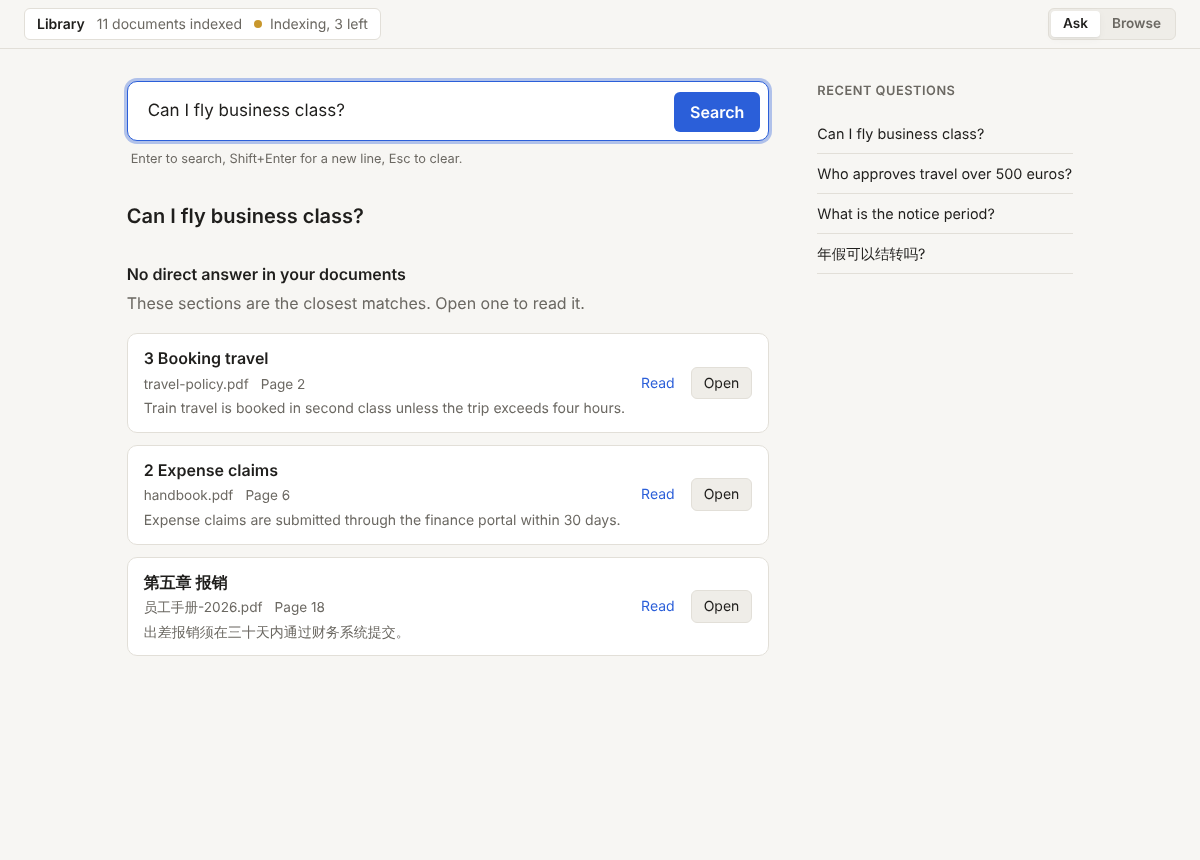
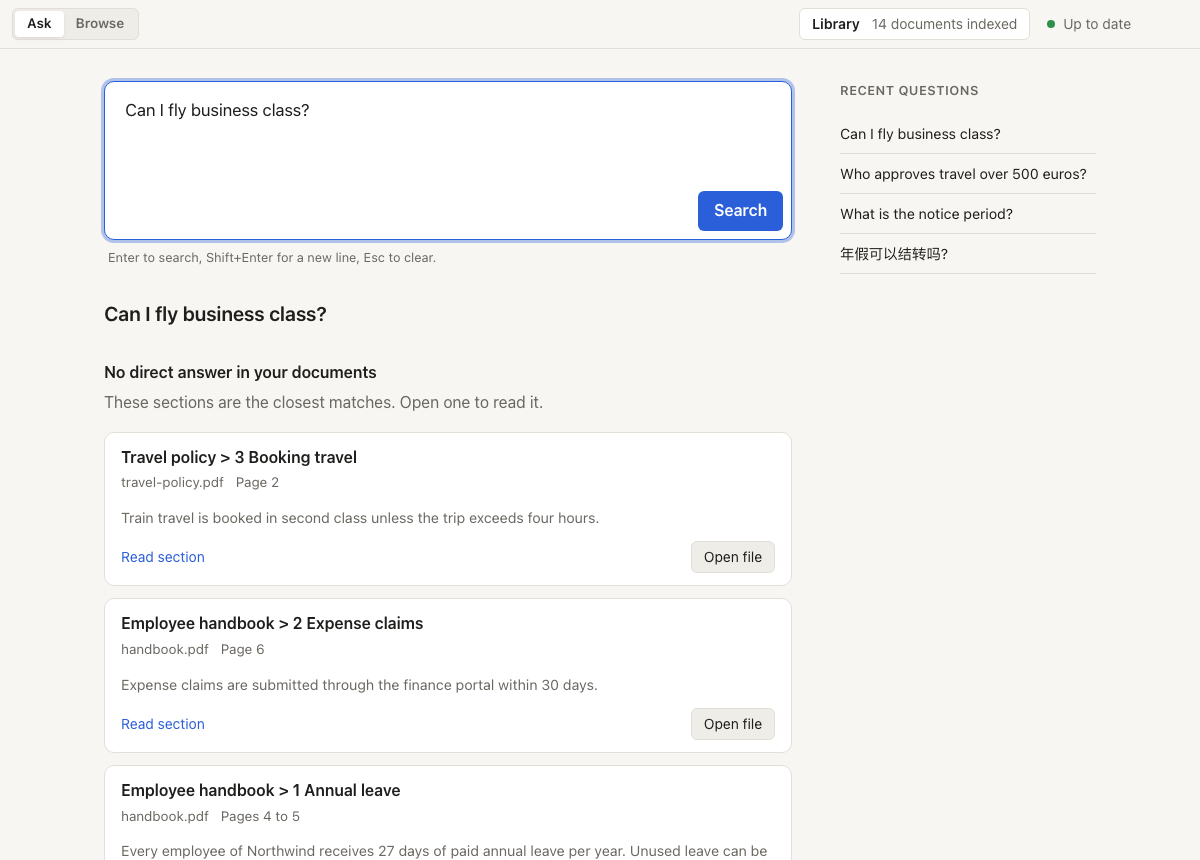
No direct answer list: Read section and Open file as on the source cards, passages rendered as Markdown; tests for an added file moved to the Trash (live, while closed, event missed)
The hand-test report (an added file deleted through the Trash stayed in the library) traced to the same-name Replace: the trashed file had already been replaced and removed; the document left was the other file of that name, which still exists. The new real-watcher tests pass on the earlier code. The fallback screenshot test used an indexing library, which keeps the question box off; it now uses an idle one.

Claude-Session: https://claude.ai/code/session_018TGyq8jhpjqYDijyPVhUzZ

diff --git a/src/main/libraries.test.ts b/src/main/libraries.test.ts
@@ -286,6 +286,77 @@ describe('LibraryManager', () => {
     await t.manager.stop();
   });
 
+  describe('an added file moved to the Trash', () => {
+    // A trash-like folder on the same volume: Finder's move to the Trash is a rename into ~/.Trash.
+    const trash = () => {
+      const t = path.join(tmp, '.Trash');
+      fs.mkdirSync(t, { recursive: true });
+      return t;
+    };
+    /** An added file and a neighbour that stays in its folder, as in a folder of downloads. */
+    const scene = () => {
+      const dir = path.join(tmp, 'Inbox');
+      const added = put(path.join(dir, 'minutes.md'), '# Minutes\n\nThe meeting.');
+      put(path.join(dir, 'neighbour.md'), '# Neighbour\n\nNot added.');
+      return { dir, added };
+    };
+    const sourcesOf = (t: ReturnType<typeof setup>) => t.manager.view().libraries[0]!.sources;
+
+    it('while running: the live watch removes it from the index and the library', async () => {
+      const t = setup();
+      await t.manager.start();
+      const { dir, added } = scene();
+      await t.manager.addPaths([added]);
+      await until(() => docTitles(t.manager).length === 1);
+      await t.manager.watcherOf()!.whenIdle();
+
+      fs.renameSync(added, path.join(trash(), 'minutes.md'));
+      await until(() => sourcesOf(t).length === 0);
+      expect(docTitles(t.manager)).toEqual([]);
+      expect(t.api.embedded.size).toBe(0);
+      expect(t.manager.watcherOf()!.status().unavailable).toEqual([]);
+      expect(fs.readdirSync(dir)).toEqual(['neighbour.md']);
+      await t.manager.stop();
+    });
+
+    it('while AskFiles is closed: the start removes it, then the Trash is emptied', async () => {
+      const t = setup();
+      await t.manager.start();
+      const { added } = scene();
+      await t.manager.addPaths([added]);
+      await until(() => docTitles(t.manager).length === 1);
+      await t.manager.watcherOf()!.whenIdle();
+      await t.manager.stop();
+
+      fs.renameSync(added, path.join(trash(), 'minutes.md'));
+      fs.rmSync(path.join(tmp, '.Trash'), { recursive: true });
+      await t.manager.start();
+      await until(() => sourcesOf(t).length === 0);
+      await t.manager.watcherOf()!.whenIdle();
+      expect(docTitles(t.manager)).toEqual([]);
+      expect(t.api.embedded.size).toBe(0);
+      await t.manager.stop();
+    });
+
+    it('with the event missed: Check for updates removes it, and the status is up to date', async () => {
+      const t = setup({ watch: manualWatch() });
+      await t.manager.start();
+      const { added } = scene();
+      await t.manager.addPaths([added]);
+      await until(() => docTitles(t.manager).length === 1);
+      await t.manager.watcherOf()!.whenIdle();
+
+      fs.renameSync(added, path.join(trash(), 'minutes.md'));
+      await t.manager.checkUpdates();
+      await until(() => sourcesOf(t).length === 0);
+      await t.manager.watcherOf()!.whenIdle();
+      expect(docTitles(t.manager)).toEqual([]);
+      expect(t.manager.status()).toMatchObject({ state: 'idle', unavailable: [] });
+      expect(t.manager.status().error).toBeUndefined();
+      await t.manager.stop();
+    });
+  });
+
   it('reconciles added files at start: a changed one is indexed again, a deleted one is removed', async () => {
     const t = setup();
     await t.manager.start();

diff --git a/test/e2e/ask.spec.js b/test/e2e/ask.spec.js
@@ -418,7 +418,11 @@ test.describe('Ask page with the answer pipeline stubbed', () => {
   test('the not-found marker shows the nothing-found state with the nearest sections', async ({ page }) => {
     const run = answerRun({
       sources: [LEAVE],
-      result: { notFound: true, text: 'NOT_IN_SOURCES', nearest: [PARKING, CARRY] },
+      result: {
+        notFound: true,
+        text: 'NOT_IN_SOURCES',
+        nearest: [{ ...PARKING, passage: 'Parking is **free** for staff.\n\n- Level 1\n- Level 2' }, CARRY],
+      },
     });
     await open(page, { runs: { 'Can I fly business class?': run } });
     await askQuestion(page, 'Can I fly business class?');
@@ -429,6 +433,35 @@ test.describe('Ask page with the answer pipeline stubbed', () => {
     await expect(items.nth(0).getByTestId('fallback-file')).toHaveText('handbook.pdf');
     await expect(items.nth(0).getByTestId('fallback-page')).toHaveText('Page 3');
     await expect(items.nth(1).getByTestId('fallback-page')).toBeHidden();
+    // The same actions as a source card: the Read section link and the Open file button.
+    for (const item of [items.nth(0), items.nth(1)]) {
+      await expect(item.locator('.card-actions button')).toHaveText(['Read section', 'Open file']);
+      await expect(item.getByTestId('fallback-read')).toHaveClass('link read');
+      await expect(item.getByTestId('fallback-open')).toHaveClass('open');
+    }
+    const [readEdge, openEdge] = await Promise.all(
+      ['fallback-read', 'fallback-open'].map((id) =>
+        items
+          .nth(0)
+          .getByTestId(id)
+          .evaluate((b) => {
+            const r = b.getBoundingClientRect();
+            const row = b.parentElement.getBoundingClientRect();
+            return { left: Math.round(r.left - row.left), right: Math.round(row.right - r.right) };
+          }),
+      ),
+    );
+    // Read section at the left edge of the row, Open file at the right, as on the cards.
+    expect(readEdge.left).toBe(0);
+    expect(openEdge.right).toBe(0);
+    // The passage is Markdown rendered as answers are: bold and a list, not asterisks and dashes.
+    const preview = items.nth(0).getByTestId('fallback-preview');
+    await expect(preview.locator('strong')).toHaveText('free');
+    await expect(preview.locator('li')).toHaveText(['Level 1', 'Level 2']);
+    await expect(preview).not.toContainText('**');
+    await expect(items.nth(1).getByTestId('fallback-preview')).toHaveText(
+      'Unused days can be carried over until March.',
+    );
     await expect(page.getByTestId('answer-text')).toBeEmpty();
     await expect(page.getByTestId('sources')).toBeHidden();
   });

diff --git a/src/renderer/ask/ask.css b/src/renderer/ask/ask.css
@@ -321,29 +321,29 @@ h2 {
   }
 }
 
-.answer-text p {
+:is(.answer-text, .section-preview) p {
   margin: 0 0 var(--space-3);
   overflow-wrap: anywhere;
 }
 
 /* The answer's Markdown (src/renderer/shared/markdown.js): lists, bold, italic, inline code. */
-.answer-text ul,
-.answer-text ol {
+:is(.answer-text, .section-preview) ul,
+:is(.answer-text, .section-preview) ol {
   margin: 0 0 var(--space-3);
   padding-left: 1.5em;
 }
 
-.answer-text li {
+:is(.answer-text, .section-preview) li {
   margin: 0.25em 0;
 }
 
-.answer-text li > ul,
-.answer-text li > ol,
-.answer-text li > p {
+:is(.answer-text, .section-preview) li > ul,
+:is(.answer-text, .section-preview) li > ol,
+:is(.answer-text, .section-preview) li > p {
   margin: 0.25em 0 0;
 }
 
-.answer-text code {
+:is(.answer-text, .section-preview) code {
   padding: 0.05em 0.3em;
   border-radius: 4px;
   background: var(--surface-sunken);
@@ -485,9 +485,9 @@ button:focus-visible {
 }
 
 .section-item {
-  display: flex;
-  align-items: center;
-  gap: var(--space-4);
+  /* Like a source card: what and where, the passage, then Read section and Open file. */
+  display: grid;
+  gap: var(--space-3);
   padding: var(--space-3) var(--space-4);
   background: var(--surface);
   border: 1px solid var(--border);
@@ -519,11 +519,18 @@ button:focus-visible {
 }
 
 .section-preview {
-  font-size: 0.875rem;
+  /* Rendered Markdown like the answer, clamped to a few lines. */
+  font-size: 0.9rem;
   color: var(--text-muted);
+  overflow-wrap: anywhere;
+  display: -webkit-box;
+  -webkit-line-clamp: 4;
+  -webkit-box-orient: vertical;
   overflow: hidden;
-  text-overflow: ellipsis;
-  white-space: nowrap;
+}
+
+.section-preview > :last-child {
+  margin-bottom: 0;
 }
 
 .error {

diff --git a/src/renderer/ask/ask.js b/src/renderer/ask/ask.js
@@ -16,7 +16,6 @@ import { progressText } from './progress.js';
 
 const RECENT_LIMIT = 12;
 const RECENT_KEY = 'askfiles.recentQuestions';
-const PREVIEW_CHARS = 180;
 
 const $ = (id) => document.getElementById(id);
 const els = {
@@ -340,13 +339,6 @@ function setConsideredTitle(count, open) {
   els.consideredTitle.replaceChildren(document.createTextNode(`${consideredTitle(count, open)} `), chevron);
 }
 
-function preview(text) {
-  const flat = String(text || '')
-    .replace(/\s+/g, ' ')
-    .trim();
-  return flat.length > PREVIEW_CHARS ? `${flat.slice(0, PREVIEW_CHARS).trimEnd()}...` : flat;
-}
-
 function renderFallback(nearest) {
   els.fallbackList.replaceChildren(
     ...nearest.map((c) => {
@@ -354,7 +346,10 @@ function renderFallback(nearest) {
       node.querySelector('.section-title').textContent = shownPath(c);
       setOptional(node.querySelector('.section-file'), c.file);
       setOptional(node.querySelector('.section-page'), pageLabel(c));
-      node.querySelector('.section-preview').textContent = preview(withoutLeadingPageNumber(c.passage));
+      // The passage as Markdown, as answers are shown; the list clamps it to a few lines (ask.css).
+      node
+        .querySelector('.section-preview')
+        .replaceChildren(renderMarkdown(document, withoutLeadingPageNumber(c.passage || '').trim()));
       node.querySelector('.open').addEventListener('click', () => {
         announceCard(c, 'open');
         void openSource(c);

diff --git a/src/renderer/ask/index.html b/src/renderer/ask/index.html
@@ -130,10 +130,12 @@
             <span class="section-file" data-testid="fallback-file"></span>
             <span class="section-page" data-testid="fallback-page" hidden></span>
           </span>
-          <span class="section-preview" data-testid="fallback-preview"></span>
         </div>
-        <button type="button" class="link read" data-testid="fallback-read">Read</button>
-        <button type="button" class="open" data-testid="fallback-open">Open</button>
+        <div class="section-preview" data-testid="fallback-preview"></div>
+        <div class="card-actions">
+          <button type="button" class="link read" data-testid="fallback-read">Read section</button>
+          <button type="button" class="open" data-testid="fallback-open">Open file</button>
+        </div>
       </li>
     </template>
   </body>

diff --git a/test/e2e/screenshots.spec.js b/test/e2e/screenshots.spec.js
@@ -78,7 +78,8 @@ for (const scheme of ['light', 'dark']) {
     test.skip(!dir, 'SCREENSHOT_DIR not set');
     await page.emulateMedia({ colorScheme: scheme });
     await mockLibrary(page, { documents: 14, recent });
-    await stubBridge(page, { status: watcherStatus({ state: 'working', pending: 3, indexed: 11 }) });
+    // Idle: the question box is off while the library indexes (docs/summaries.md).
+    await stubBridge(page, { status: watcherStatus({ indexed: 14 }) });
     await stubAnswer(page, { runs: { 'Can I fly business class?': notFound } });
     await page.goto(pageUrl({ folder: '/Users/anna/Documents/HR' }));
     await page.getByTestId('query').fill('Can I fly business class?');
